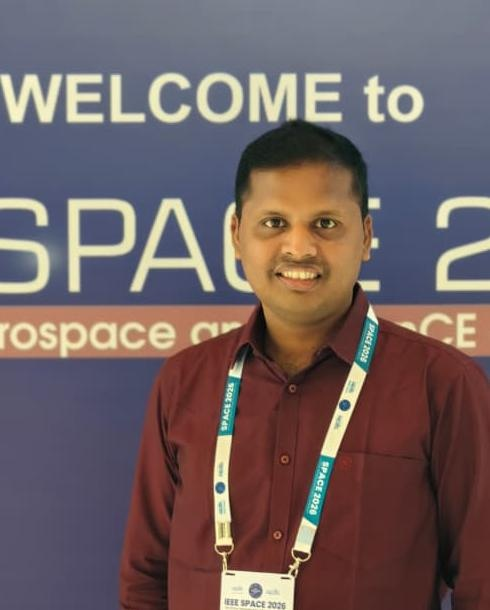
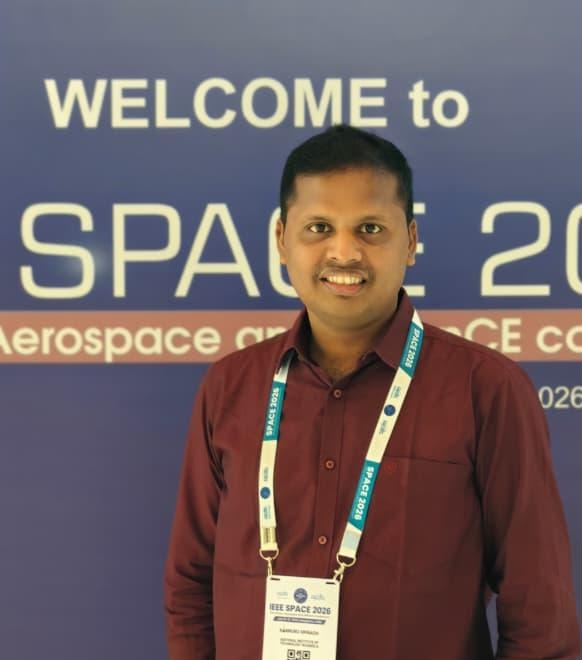
s

diff --git a/styles-two-column.css b/styles-two-column.css
@@ -211,15 +211,16 @@ html {
 .sidebar-photo-box {
     position: relative;
     margin-bottom: 1.5rem;
-    height: 450px;
+    height: auto;
     overflow: hidden;
+    border-radius: 12px;
 }
 
 .profile-photo {
     width: 100%;
-    height: 100%;
-    object-fit: cover;
-    object-position: center;
+    height: auto;
+    display: block;
+    object-fit: contain;
     border-radius: 12px;
     box-shadow: 0 10px 30px rgba(0, 0, 0, 0.1);
     transition: transform 0.5s ease, box-shadow 0.4s ease;
@@ -1426,8 +1427,8 @@ footer p:first-child {
 
     .sidebar-photo-box {
         order: 1 !important;
-        height: 330px !important;
-        max-height: 330px !important;
+        height: auto !important;
+        max-height: none !important;
         display: flex !important;
         justify-content: center !important;
         align-items: center !important;
@@ -1436,11 +1437,11 @@ footer p:first-child {
     }
 
     .profile-photo {
-        width: 260px !important;
-        height: 325px !important;
+        width: 290px !important;
         max-width: 90% !important;
-        object-fit: cover !important;
-        object-position: center !important;
+        height: auto !important;
+        display: block !important;
+        object-fit: contain !important;
         border-radius: 12px !important;
         border: 3px solid var(--gold) !important;
         box-shadow: 0 8px 25px rgba(0, 51, 102, 0.15) !important;

diff --git a/index.html b/index.html
@@ -53,7 +53,7 @@
     }
     </script>
 
-    <link rel="stylesheet" href="styles-two-column.css?v=3.8">
+    <link rel="stylesheet" href="styles-two-column.css?v=3.9">
     <link rel="stylesheet" href="https://cdnjs.cloudflare.com/ajax/libs/font-awesome/6.0.0/css/all.min.css">
     <link rel="manifest" href="manifest.json">
 </head>
@@ -102,7 +102,7 @@
                 <aside class="sidebar-left">
                     <!-- Profile Photo -->
                     <div class="sidebar-photo-box">
-                        <img src="images/KANNURU SRINADH.jpeg?v=2" alt="Kannuru Srinadh" class="profile-photo fade-in">
+                        <img src="images/KANNURU SRINADH.jpeg?v=3" alt="Kannuru Srinadh" class="profile-photo fade-in">
                     </div>
 
                     <!-- Academic Identity -->

diff --git a/sw.js b/sw.js
@@ -1,8 +1,8 @@
-const CACHE_NAME = 'srinadh-portfolio-v19';
+const CACHE_NAME = 'srinadh-portfolio-v20';
 const ASSETS = [
   './',
   './index.html',
-  './styles-two-column.css?v=3.8',
+  './styles-two-column.css?v=3.9',
   './script-two-column.js?v=2.3',
   './manifest.json',
   './images/KANNURU SRINADH.jpeg',
